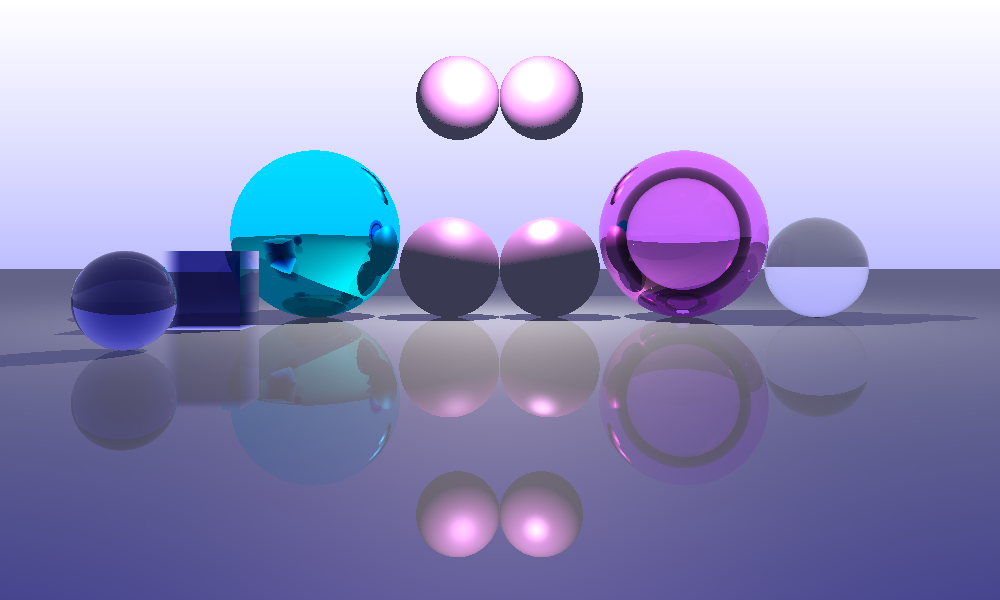
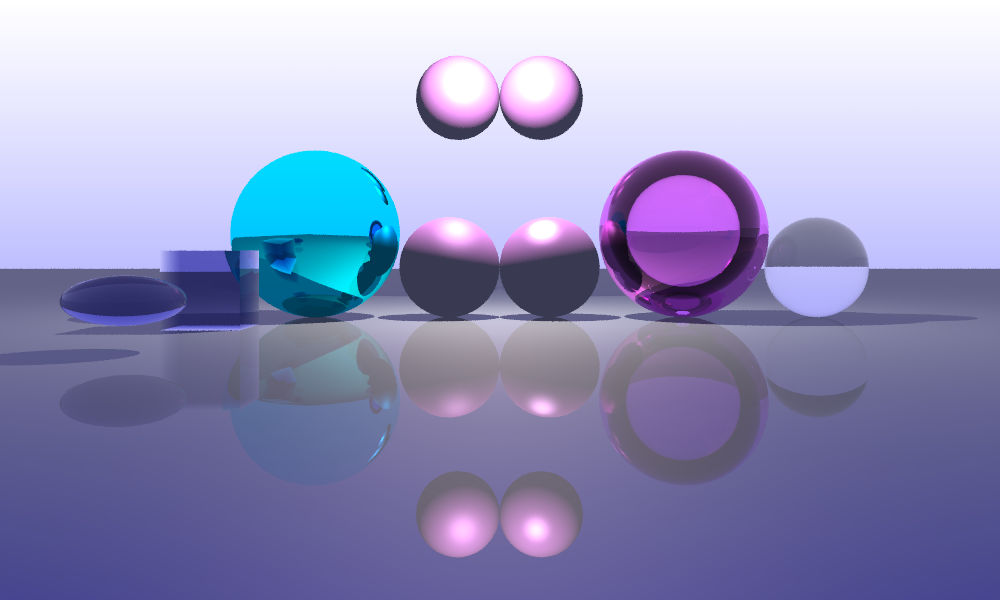
Bugfixes.

diff --git a/src/Renderer/RayTracer.cpp b/src/Renderer/RayTracer.cpp
@@ -19,8 +19,9 @@ Color RayTracer::getColor(Ray &ray, float x, float y, int depth) {
 	if (rh.hitable) {
 		Material* mat = rh.hitable->material;
 
-		float distance = Vec3::distance2(ray.origin, rh.point);
-		Color absorbed = (-ray.absorb * 10 * distance).exp();
+		float distance = Vec3::distance(ray.origin, rh.point);
+		Color absorbed = distance > ERR * 100 ? (-ray.absorb * distance).exp() : Color(1, 1, 1);
+		absorbed = absorbed.clamp(0, 1);
 
 		// Phong & Cook-Torrance
 		if (mat->type == BLINNPHONG || mat->type == COOKTORRANCE) {
@@ -37,7 +38,8 @@ Color RayTracer::getColor(Ray &ray, float x, float y, int depth) {
 			return absorbed * (mat->ke + color);
 		}
 
-		bool outside = Vec3::dot(ray.direction, rh.normal) < 0;
+		float cosi = Vec3::dot(ray.direction, rh.normal);
+		bool outside = cosi < 0;
 		Vec3 bias = 100 * ERR * rh.normal;
 		Point3 reflectedRayOrig = outside ? rh.point + bias : rh.point - bias;
 
@@ -62,23 +64,22 @@ Color RayTracer::getColor(Ray &ray, float x, float y, int depth) {
 		}
 
 		// Dielectric
-		float refr = mat->refraction / ray.refraction;
-		float cost = 0, cosi = clamp(Vec3::dot(ray.direction, rh.normal), -1, 1);
-		float etai = 1, etat = refr;
-		if (cosi < 0)
+		float cost = 0;
+		float refr1 = ray.refraction;
+		float refr2 = mat->refraction;
+		if (outside)
 			cosi = -cosi;
 		else
-			std::swap(etai, etat); 
-		float eta = etai / etat;
-		float sint = eta * std::max(0.f, 1 - cosi * cosi);
-		float k = 1 - eta * sint;
+			std::swap(refr1, refr2); 
+		float refr = refr1 / refr2;
+
+		float k = 1 - refr * refr * (1 - cosi * cosi);
 
 		float fr = 1;
 		if (k > 0) {
 			cost = sqrtf(k);
-			float acosi = fabsf(cosi);
-			float Rs = ((etat * acosi) - (etai * cost)) / ((etat * acosi) + (etai * cost));
-			float Rp = ((etai * acosi) - (etat * cost)) / ((etai * acosi) + (etat * cost));
+			float Rs = ((refr2 * cosi) - (refr1 * cost)) / ((refr2 * cosi) + (refr1 * cost));
+			float Rp = ((refr1 * cosi) - (refr2 * cost)) / ((refr1 * cosi) + (refr2 * cost));
 			fr = (Rs * Rs + Rp * Rp) / 2;
 		} // Else: total internal reflection
 		fr = mat->reflectivity + (1.0 - mat->reflectivity) * fr;
@@ -86,13 +87,11 @@ Color RayTracer::getColor(Ray &ray, float x, float y, int depth) {
 		Vec3 refractionColor(0, 0, 0);
 		if (fr < 1 - ERR) {
 			// Refraction ray
-			if (k > 0) {
-				Vec3 refractedDir = eta * ray.direction + (eta * cosi - cost) * rh.normal; 
-				Point3 refractedRayOrig = outside ? rh.point - bias : rh.point + bias;
-				Vec3 absorb = ray.absorb + (outside ? mat->absorb : -mat->absorb);
-				Ray refractedRay(refractedRayOrig, refractedDir, mat->refraction, absorb);
-				refractionColor = getColor(refractedRay, x, y, depth - 1);
-			}
+			Vec3 refractedDir = refr * ray.direction + (refr * cosi - cost) * rh.normal;
+			Point3 refractedRayOrig = outside ? rh.point - bias : rh.point + bias;
+			Vec3 absorb = ray.absorb + (outside ? mat->absorb : -mat->absorb);
+			Ray refractedRay(refractedRayOrig, refractedDir, mat->refraction, absorb);
+			refractionColor = getColor(refractedRay, x, y, depth - 1);
 		}
 
 		Vec3 reflectionColor(0, 0, 0);

diff --git a/src/Hitable/Sphere.cpp b/src/Hitable/Sphere.cpp
@@ -7,7 +7,7 @@ Sphere::Sphere(int id, Matrix4 &xform, Point3 p, float rad) : center(p), radius(
 	Matrix4 translation = Matrix4::translation(center);
 	Matrix4 scaling = Matrix4::scaling(radius);
 	transform = scaling * translation;
-	transform = transform * xform;
+	transform = xform * transform;
 	invt = transform.inverse();
 }
 
@@ -52,41 +52,25 @@ RayHit Sphere::hit(Ray &ray) {
 		float sqrtdelta = std::sqrt(delta);
 		float t1 = (-b - sqrtdelta) / (2 * a);
 		float t2 = (-b + sqrtdelta) / (2 * a);
-		if (t1 < 0)
-			rh.t = t2;
-		else if (t2 < 0)
-			rh.t = t1;
-		else
-			rh.t = std::min(t1, t2);
+		float t = t1 < 0 ? t2 : t2 < 0 ? t1 : std::min(t1, t2);
 
-		if (rh.t < 0)
+		if (t < 0)
 			return rh;
 
-		rh.point = ray.at(rh.t);
-		rh.normal = o + rh.t * d;
+		rh.t = t;
+		rh.point = ray.at(t);
+		
+		{ // UV map
+			Vec3 n = o + rh.t * d;
+			float phi = atan2(n.z, n.x);
+	    	float theta = asin(n.y);
+		    float u = 1 - (phi + PI) / (2 * PI);
+		    float v = (theta + PI / 2) / PI;
+		    rh.uv = Vec2(u, v);
+		}
 
-		float x = rh.normal.x, y = rh.normal.y, z = rh.normal.z;
-		//float tetha = acos(z);
-		//float phi = atan(y / x);
-		//rh.texture = material->texture(tetha / (2 * PI), phi / (2 * PI), rh.normal);
-		//std::cout << x << " " << y << " " << z << " " << tetha / PI * 180 << " " << phi / PI * 180 << std::endl;
-
-		float phi = atan2(z, x);
-    	float theta = asin(y);
-	    float u = 1-(phi + PI) / (2*PI);
-	    float v = (theta + PI/2) / PI;
-	    rh.uv = Vec2(u, v);
-
-		//float u = x / 2 + 0.5;
-		//float v = y / 2 + 0.5;
-		//rh.texture = material->texture(u, v, rh.normal);
-
-		rh.normal = transform.transformVector(rh.normal);
+		rh.normal = rh.point - center;
 		rh.normal = Vec3::normalize(rh.normal);
-
-		//if (Vec3::dot(ray.direction, rh.normal) > 0)
-			//std::cout << "bla" << std::endl;
-
 		rh.hitable = this;
 	}
 

diff --git a/src/Math/Vec3.cpp b/src/Math/Vec3.cpp
@@ -52,8 +52,19 @@ bool Vec3::valid() const {
     return ((x == x) && (y == y) && (z == z));
 }
 
+bool Vec3::inf() const {
+    return isinf(x) || isinf(y) || isinf(z);
+}
+
 Vec3 Vec3::exp() const {
     return Vec3(std::exp(x), std::exp(y), std::exp(z));
+}
+
+Vec3 Vec3::clamp(float min, float max) const {
+    float _x = fmin(max, fmax(min, x));
+    float _y = fmin(max, fmax(min, y));
+    float _z = fmin(max, fmax(min, z));
+    return Vec3(_x, _y, _z);
 }
 
 Vec3 Vec3::normalize(const Vec3 &V) {

diff --git a/src/Math/Vec3.h b/src/Math/Vec3.h
@@ -40,7 +40,10 @@ struct Vec3 {
      float length2() const;
 
      bool valid() const;
+     bool inf() const;
+
      Vec3 exp() const;
+     Vec3 clamp(float min, float max) const;
 
 #ifdef USE_D3D
      operator D3DXVECTOR3() const;
